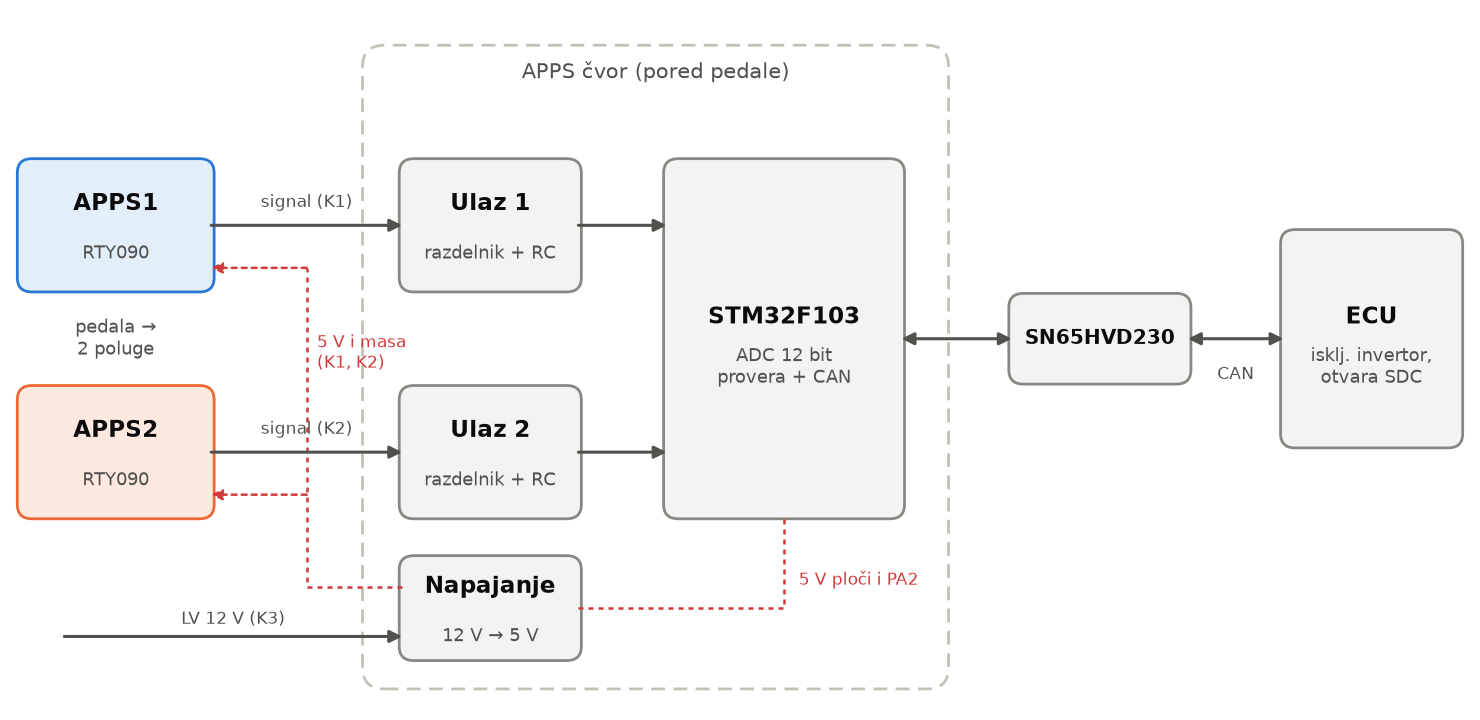
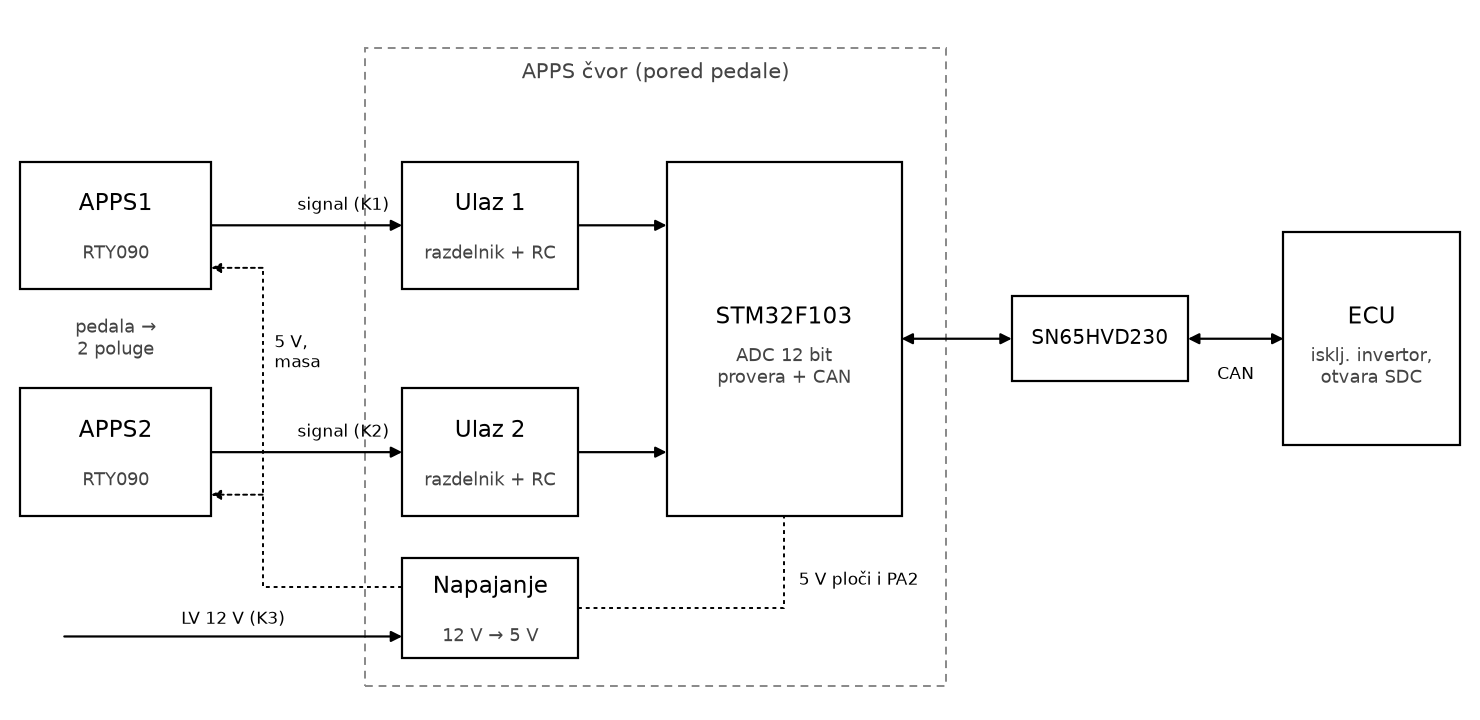
Crno-bele minimalisticke slike i venv u .gitignore
Blok sema, prenosne funkcije i slike simulacije su prebacene u crno-beli
minimalisticki stil (isti sadrzaj, bez boja i senki). venv/ dodat u .gitignore.

diff --git a/simulacija/apps_sim.py b/simulacija/apps_sim.py
@@ -45,8 +45,6 @@ DEAD_LO, DEAD_HI = 5.0, 95.0   # mrtve zone
 N_AVG = 4                      # pokretni prosek 4 odbirka
 SDC_EXTRA = 100                # ECU otvara SDC ako FAULT traje još 100 ms
 
-C_S1, C_S2, C_OUT, C_FAULT = "#2a78d6", "#eb6834", "#1baf7a", "#d03b3b"
-C_INK, C_MUTED, C_GRID = "#0b0b0b", "#52514e", "#e1e0d9"
 
 
 # --------------------------------------------------------------------------- model
@@ -229,10 +227,14 @@ def style(ax):
     for s_ in ("top", "right"):
         ax.spines[s_].set_visible(False)
     for s_ in ("left", "bottom"):
-        ax.spines[s_].set_color("#c3c2b7")
-    ax.tick_params(colors=C_MUTED, labelsize=8.5)
-    ax.grid(True, color=C_GRID, linewidth=0.6)
-    ax.set_axisbelow(True)
+        ax.spines[s_].set_color("black")
+        ax.spines[s_].set_linewidth(0.7)
+    ax.tick_params(colors="black", labelsize=8, width=0.6, length=3)
+
+
+def dc(text):
+    """Decimalni zarez."""
+    return text.replace(".", ",")
 
 
 def fig_transfer(path):
@@ -241,35 +243,31 @@ def fig_transfer(path):
     p = np.linspace(0, 100, 101)
     v1, v2 = sensor_v(p)
     mv = MARG / 100 * SPAN
-    ax.axhspan(V1_0 - mv, V1_100 + mv, color=C_S1, alpha=0.08, lw=0)
-    ax.axhspan(V2_0 - mv, V2_100 + mv, color=C_S2, alpha=0.08, lw=0)
-    for v, c in ((V1_0 - mv, C_S1), (V1_100 + mv, C_S1), (V2_0 - mv, C_S2), (V2_100 + mv, C_S2)):
-        ax.axhline(v, color=c, lw=0.7, ls=(0, (2, 2)), alpha=0.8)
-    ax.plot(p, v1, color=C_S1, lw=2)
-    ax.plot(p, v2, color=C_S2, lw=2)
-    ax.axhline(0.5, color=C_MUTED, lw=0.8, ls=(0, (4, 3)))
-    ax.axhline(4.5, color=C_MUTED, lw=0.8, ls=(0, (4, 3)))
-    ax.text(101.5, v1[-1], "APPS1", fontsize=9, va="center", color=C_INK)
-    ax.text(101.5, v2[-1], "APPS2", fontsize=9, va="center", color=C_INK)
-    y1, y2 = sensor_v(30)
-    ax.annotate("", xy=(30, y2), xytext=(30, y1), arrowprops=dict(arrowstyle="<->", color=C_MUTED, lw=1))
-    ax.text(62, 1.45, "razmak 0,57 V: kratak spoj između\nsignala daje razliku ≥ 20 p.p.",
-            fontsize=7.5, color=C_MUTED, va="center")
-    ax.annotate("", xy=(31, (y1 + y2) / 2), xytext=(61, 1.45),
-                arrowprops=dict(arrowstyle="-", color=C_MUTED, lw=0.6, ls=(0, (2, 2))))
-    ax.text(40, V1_0 - mv + 0.03, ("prozor APPS1: %.2f–%.2f V" % (V1_0 - mv, V1_100 + mv)).replace(".", ","),
-            fontsize=7.5, color=C_S1, va="bottom")
-    ax.text(1, V2_100 + mv + 0.04, ("prozor APPS2: %.2f–%.2f V" % (V2_0 - mv, V2_100 + mv)).replace(".", ","),
-            fontsize=7.5, color=C_S2, va="bottom")
-    ax.text(99, 0.44, "granica senzora 0,5 V", fontsize=7, color=C_MUTED, ha="right", va="top")
-    ax.text(99, 4.56, "granica senzora 4,5 V", fontsize=7, color=C_MUTED, ha="right", va="bottom")
-    ax.text(50, 0.12, "0 V: prekid žice ili kratak spoj na masu", fontsize=7.5, color=C_FAULT, ha="center")
-    ax.text(50, 4.88, "5 V: kratak spoj na napajanje senzora", fontsize=7.5, color=C_FAULT, ha="center")
+    ax.plot(p, v1, color="black", lw=1.5, ls="-")
+    ax.plot(p, v2, color="black", lw=1.5, ls=(0, (5, 3)))
+    for v in (0.5, 4.5):                                   # granice izlaza senzora
+        ax.axhline(v, color="#888888", lw=0.7)
+    for v in (V1_0 - mv, V1_100 + mv, V2_0 - mv, V2_100 + mv):   # granice dozvoljenih opsega
+        ax.axhline(v, color="#888888", lw=0.6, ls=(0, (1, 2)))
+    ax.text(101.5, v1[-1], "APPS1", fontsize=8.5, va="center")
+    ax.text(101.5, v2[-1], "APPS2", fontsize=8.5, va="center")
+    y1, y2 = sensor_v(60)
+    ax.annotate("", xy=(60, y2), xytext=(60, y1), arrowprops=dict(arrowstyle="<->", color="black", lw=0.8))
+    ax.annotate("razmak 0,57 V", xy=(60, (y1 + y2) / 2), xytext=(36, 3.75), fontsize=7.5, va="center",
+                arrowprops=dict(arrowstyle="-", color="black", lw=0.5, shrinkA=2, shrinkB=0))
+    ax.text(1, V1_100 + mv + 0.04, dc("granice APPS1: %.2f i %.2f V" % (V1_0 - mv, V1_100 + mv)),
+            fontsize=7, color="#444444", va="bottom")
+    ax.text(1, V2_100 + mv + 0.04, dc("granice APPS2: %.2f i %.2f V" % (V2_0 - mv, V2_100 + mv)),
+            fontsize=7, color="#444444", va="bottom")
+    ax.text(99, 0.45, "granica senzora 0,5 V", fontsize=7, color="#444444", ha="right", va="top")
+    ax.text(99, 4.55, "granica senzora 4,5 V", fontsize=7, color="#444444", ha="right", va="bottom")
+    ax.text(50, 0.12, "0 V: prekid žice ili kratak spoj na masu", fontsize=7, ha="center")
+    ax.text(50, 4.85, "5 V: kratak spoj na napajanje senzora", fontsize=7, ha="center")
     ax.set_xlim(0, 112)
     ax.set_ylim(0, 5.1)
     ax.set_xticks(range(0, 101, 20))
-    ax.set_xlabel("Hod pedale [%]", fontsize=9, color=C_MUTED)
-    ax.set_ylabel("Izlaz senzora [V]", fontsize=9, color=C_MUTED)
+    ax.set_xlabel("Hod pedale [%]", fontsize=8.5)
+    ax.set_ylabel("Izlaz senzora [V]", fontsize=8.5)
     fig.tight_layout()
     fig.savefig(path, facecolor="white")
     plt.close(fig)
@@ -288,86 +286,82 @@ def fig_sim(results, path):
                 j = i
                 while j < f.size and f[j]:
                     j += 1
-                ax.axvspan(ts[i], ts[j - 1], color=C_FAULT, alpha=0.09, lw=0)
-                ax.text((ts[i] + ts[j - 1]) / 2, 113, "FAULT", color=C_FAULT, fontsize=8,
-                        ha="center", va="center", fontweight="bold")
+                ax.axvspan(ts[i], ts[j - 1], color="#e6e6e6", lw=0)
+                ax.text((ts[i] + ts[j - 1]) / 2, 113, "FAULT", fontsize=7.5, ha="center", va="center")
                 i = j
             i += 1
-        ax.axvline(T_FAULT / 1000.0, color=C_MUTED, lw=0.8, ls=(0, (3, 3)))
-        ax.plot(ts, np.clip(r["p1"], -20, 125), color=C_S1, lw=1.4, label="APPS1")
-        ax.plot(ts, np.clip(r["p2"], -20, 125), color=C_S2, lw=1.4, label="APPS2")
-        ax.plot(ts, r["out"], color=C_OUT, lw=2.0, label="izlaz ka ECU")
+        ax.axvline(T_FAULT / 1000.0, color="black", lw=0.6, ls=(0, (2, 2)))
+        ax.plot(ts, np.clip(r["p1"], -20, 125), color="#777777", lw=1.2, ls="-", label="APPS1")
+        ax.plot(ts, np.clip(r["p2"], -20, 125), color="black", lw=1.2, ls=(0, (4, 2)), label="APPS2")
+        ax.plot(ts, r["out"], color="black", lw=2.0, ls="-", label="izlaz ka ECU")
         ax.set_ylim(-22, 127)
         ax.set_yticks([0, 25, 50, 75, 100])
         ax.set_xlim(1.6, ts[-1])
         det = ("FAULT posle %d ms" % r["t_det"]) if r["t_det"] is not None else "bez FAULT-a"
-        ax.set_title("%s\n%s" % (r["name"], det), fontsize=8.6, color=C_INK, loc="left")
-        ax.set_xlabel("Vreme [s]", fontsize=8.3, color=C_MUTED)
-        ax.set_ylabel("Položaj [%]", fontsize=8.3, color=C_MUTED)
+        ax.set_title("%s\n%s" % (r["name"], det), fontsize=8, loc="left")
+        ax.set_xlabel("Vreme [s]", fontsize=8)
+        ax.set_ylabel("Položaj [%]", fontsize=8)
     h, l = axes[0, 0].get_legend_handles_labels()
-    fig.legend(h, l, loc="upper center", ncol=3, frameon=False, fontsize=8.5, bbox_to_anchor=(0.5, 1.0))
+    fig.legend(h, l, loc="upper center", ncol=3, frameon=False, fontsize=8, bbox_to_anchor=(0.5, 1.0))
     fig.tight_layout(rect=(0, 0, 1, 0.97))
     fig.savefig(path, facecolor="white")
     plt.close(fig)
 
 
 def fig_block(path):
-    from matplotlib.patches import FancyBboxPatch
+    from matplotlib.patches import Rectangle
     fig, ax = plt.subplots(figsize=(7.4, 3.6), dpi=200)
     ax.set_xlim(0, 100)
     ax.set_ylim(0, 50)
     ax.axis("off")
 
-    def box(x, y, w, h, title, sub="", fc="#f3f3f3", ec="#898781", fs=8.3):
-        ax.add_patch(FancyBboxPatch((x, y), w, h, boxstyle="round,pad=0.2,rounding_size=1.0",
-                                    fc=fc, ec=ec, lw=1.0))
-        ax.text(x + w / 2, y + h / 2 + (1.5 if sub else 0), title, ha="center", va="center",
-                fontsize=fs, color=C_INK, fontweight="bold")
+    def box(x, y, w, h, title, sub="", fs=8.3):
+        ax.add_patch(Rectangle((x, y), w, h, fc="white", ec="black", lw=0.8))
+        ax.text(x + w / 2, y + h / 2 + (1.5 if sub else 0), title, ha="center", va="center", fontsize=fs)
         if sub:
-            ax.text(x + w / 2, y + h / 2 - 2.0, sub, ha="center", va="center", fontsize=6.5, color=C_MUTED)
+            ax.text(x + w / 2, y + h / 2 - 2.0, sub, ha="center", va="center", fontsize=6.5, color="#444444")
 
     def arrow(x0, y0, x1, y1, text="", dy=1.0, both=False):
         ax.annotate("", xy=(x1, y1), xytext=(x0, y0),
-                    arrowprops=dict(arrowstyle="<|-|>" if both else "-|>", color="#52514e", lw=1.1,
-                                    shrinkA=0, shrinkB=0, mutation_scale=9))
+                    arrowprops=dict(arrowstyle="<|-|>" if both else "-|>", color="black", lw=0.8,
+                                    shrinkA=0, shrinkB=0, mutation_scale=8))
         if text:
-            ax.text((x0 + x1) / 2, max(y0, y1) + dy, text, ha="center", va="bottom", fontsize=6.3,
-                    color=C_MUTED)
+            ax.text((x0 + x1) / 2, max(y0, y1) + dy, text, ha="center", va="bottom", fontsize=6.3)
 
     # okvir čvora
-    ax.add_patch(FancyBboxPatch((24.5, 2), 39.5, 45, boxstyle="round,pad=0.2,rounding_size=1.5",
-                                fc="white", ec="#c3c2b7", lw=1.0, ls=(0, (5, 3))))
-    ax.text(44.25, 45.3, "APPS čvor (pored pedale)", ha="center", va="center", fontsize=7.5, color=C_MUTED)
+    ax.add_patch(Rectangle((24.5, 2), 39.5, 45, fc="none", ec="#888888", lw=0.7, ls=(0, (4, 3))))
+    ax.text(44.25, 45.3, "APPS čvor (pored pedale)", ha="center", va="center", fontsize=7.5, color="#444444")
 
-    box(1, 30, 13, 9, "APPS1", "RTY090", fc="#e3eefb", ec=C_S1)
-    box(1, 14, 13, 9, "APPS2", "RTY090", fc="#fde9e0", ec=C_S2)
-    ax.text(7.5, 26.5, "pedala →" + chr(10) + "2 poluge", ha="center", va="center",
-            fontsize=6.5, color=C_MUTED)
+    box(1, 30, 13, 9, "APPS1", "RTY090")
+    box(1, 14, 13, 9, "APPS2", "RTY090")
+    ax.text(7.5, 26.5, "pedala →" + chr(10) + "2 poluge", ha="center", va="center", fontsize=6.5, color="#444444")
 
     box(27, 30, 12, 9, "Ulaz 1", "razdelnik + RC")
     box(27, 14, 12, 9, "Ulaz 2", "razdelnik + RC")
     box(27, 4, 12, 7, "Napajanje", "12 V → 5 V")
     box(45, 14, 16, 25, "STM32F103", "ADC 12 bit" + chr(10) + "provera + CAN")
     box(68.5, 23.5, 12, 6, "SN65HVD230", "", fs=7.2)
-    box(87, 19, 12, 15, "ECU", "isklj. invertor," + chr(10) + "otvara SDC", fs=8.3)
+    box(87, 19, 12, 15, "ECU", "isklj. invertor," + chr(10) + "otvara SDC")
 
-    arrow(14, 34.5, 27, 34.5, "signal (K1)")
-    arrow(14, 18.5, 27, 18.5, "signal (K2)")
+    arrow(14, 34.5, 27, 34.5)
+    arrow(14, 18.5, 27, 18.5)
+    ax.text(23, 35.3, "signal (K1)", ha="center", va="bottom", fontsize=6.3)
+    ax.text(23, 19.3, "signal (K2)", ha="center", va="bottom", fontsize=6.3)
     arrow(39, 34.5, 45, 34.5)
     arrow(39, 18.5, 45, 18.5)
     arrow(61, 26.5, 68.5, 26.5, both=True)
     arrow(80.5, 26.5, 87, 26.5, both=True)
-    ax.text(83.75, 24.6, "CAN", ha="center", va="top", fontsize=6.3, color=C_MUTED)
+    ax.text(83.75, 24.6, "CAN", ha="center", va="top", fontsize=6.3)
     arrow(4, 5.5, 27, 5.5, "LV 12 V (K3)", dy=0.6)
-    # 5 V iz modula: ploči i PA2 (desno) i senzorima kroz K1/K2 (levo)
-    ax.plot([39, 53, 53], [7.5, 7.5, 14], color=C_FAULT, lw=0.9, ls=(0, (2, 2)))
-    ax.text(54, 9.5, "5 V ploči i PA2", fontsize=6.2, color=C_FAULT, va="center")
-    ax.plot([27, 20.5, 20.5], [9.0, 9.0, 31.5], color=C_FAULT, lw=0.9, ls=(0, (2, 2)))
+    # 5 V iz modula: ploči i PA2 (desno) i senzorima kroz K1/K2 (levo) - isprekidano
+    ax.plot([39, 53, 53], [7.5, 7.5, 14], color="black", lw=0.7, ls=(0, (2, 2)))
+    ax.text(54, 9.5, "5 V ploči i PA2", fontsize=6.2, va="center")
+    ax.plot([27, 17.5, 17.5], [9.0, 9.0, 31.5], color="black", lw=0.7, ls=(0, (2, 2)))
     for y in (31.5, 15.5):
-        ax.annotate("", xy=(14, y), xytext=(20.5, y),
-                    arrowprops=dict(arrowstyle="-|>", color=C_FAULT, lw=0.9, ls=(0, (2, 2)),
-                                    shrinkA=0, shrinkB=0, mutation_scale=8))
-    ax.text(21.2, 25.5, "5 V i masa" + chr(10) + "(K1, K2)", fontsize=6.0, color=C_FAULT, va="center")
+        ax.annotate("", xy=(14, y), xytext=(17.5, y),
+                    arrowprops=dict(arrowstyle="-|>", color="black", lw=0.7, ls=(0, (2, 2)),
+                                    shrinkA=0, shrinkB=0, mutation_scale=7))
+    ax.text(18.3, 25.5, "5 V," + chr(10) + "masa", fontsize=6.0, va="center")
     fig.tight_layout(pad=0.2)
     fig.savefig(path, facecolor="white")
     plt.close(fig)
